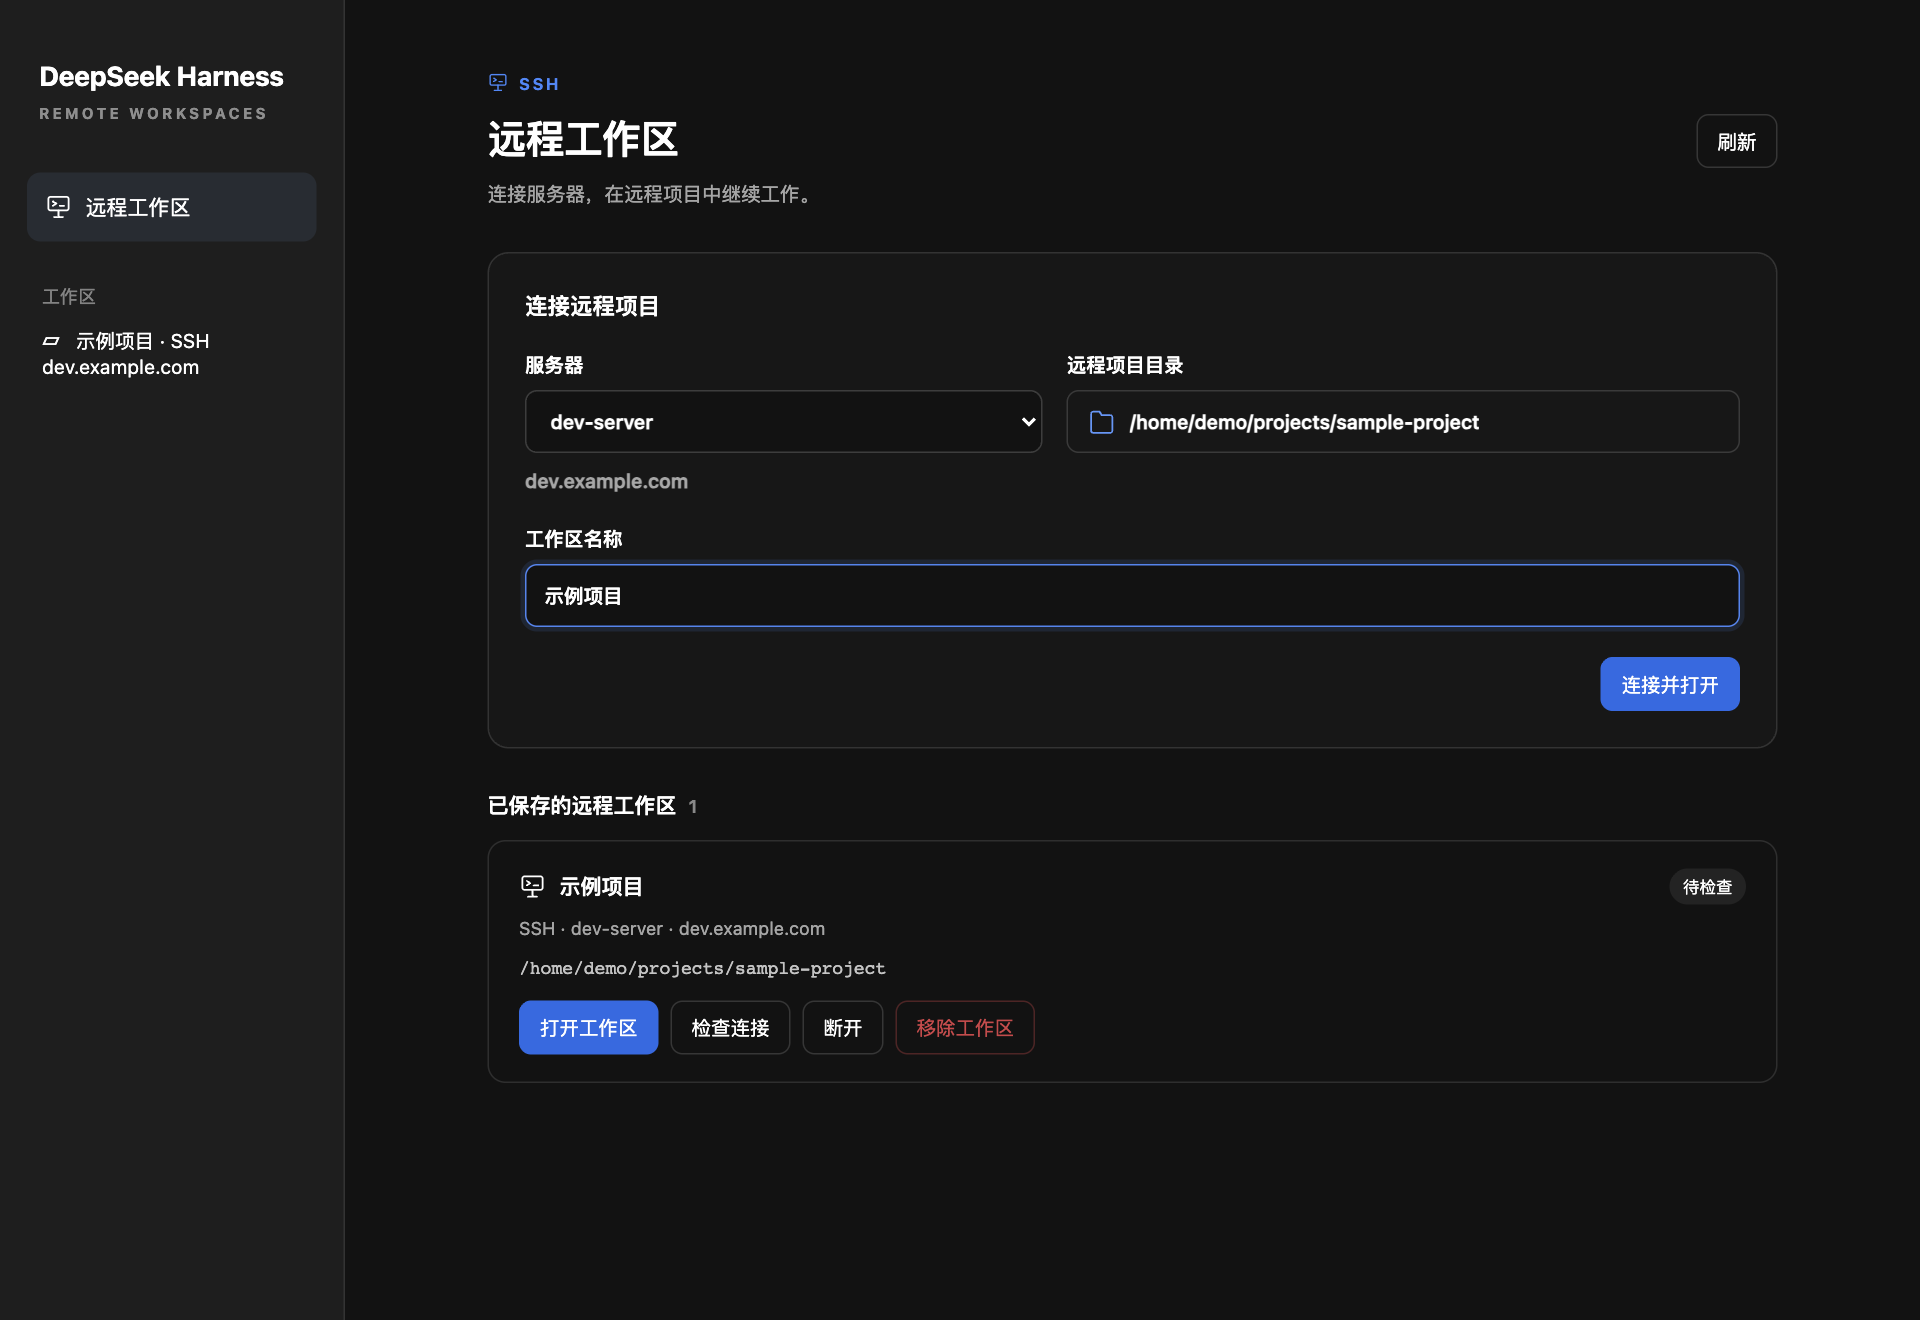
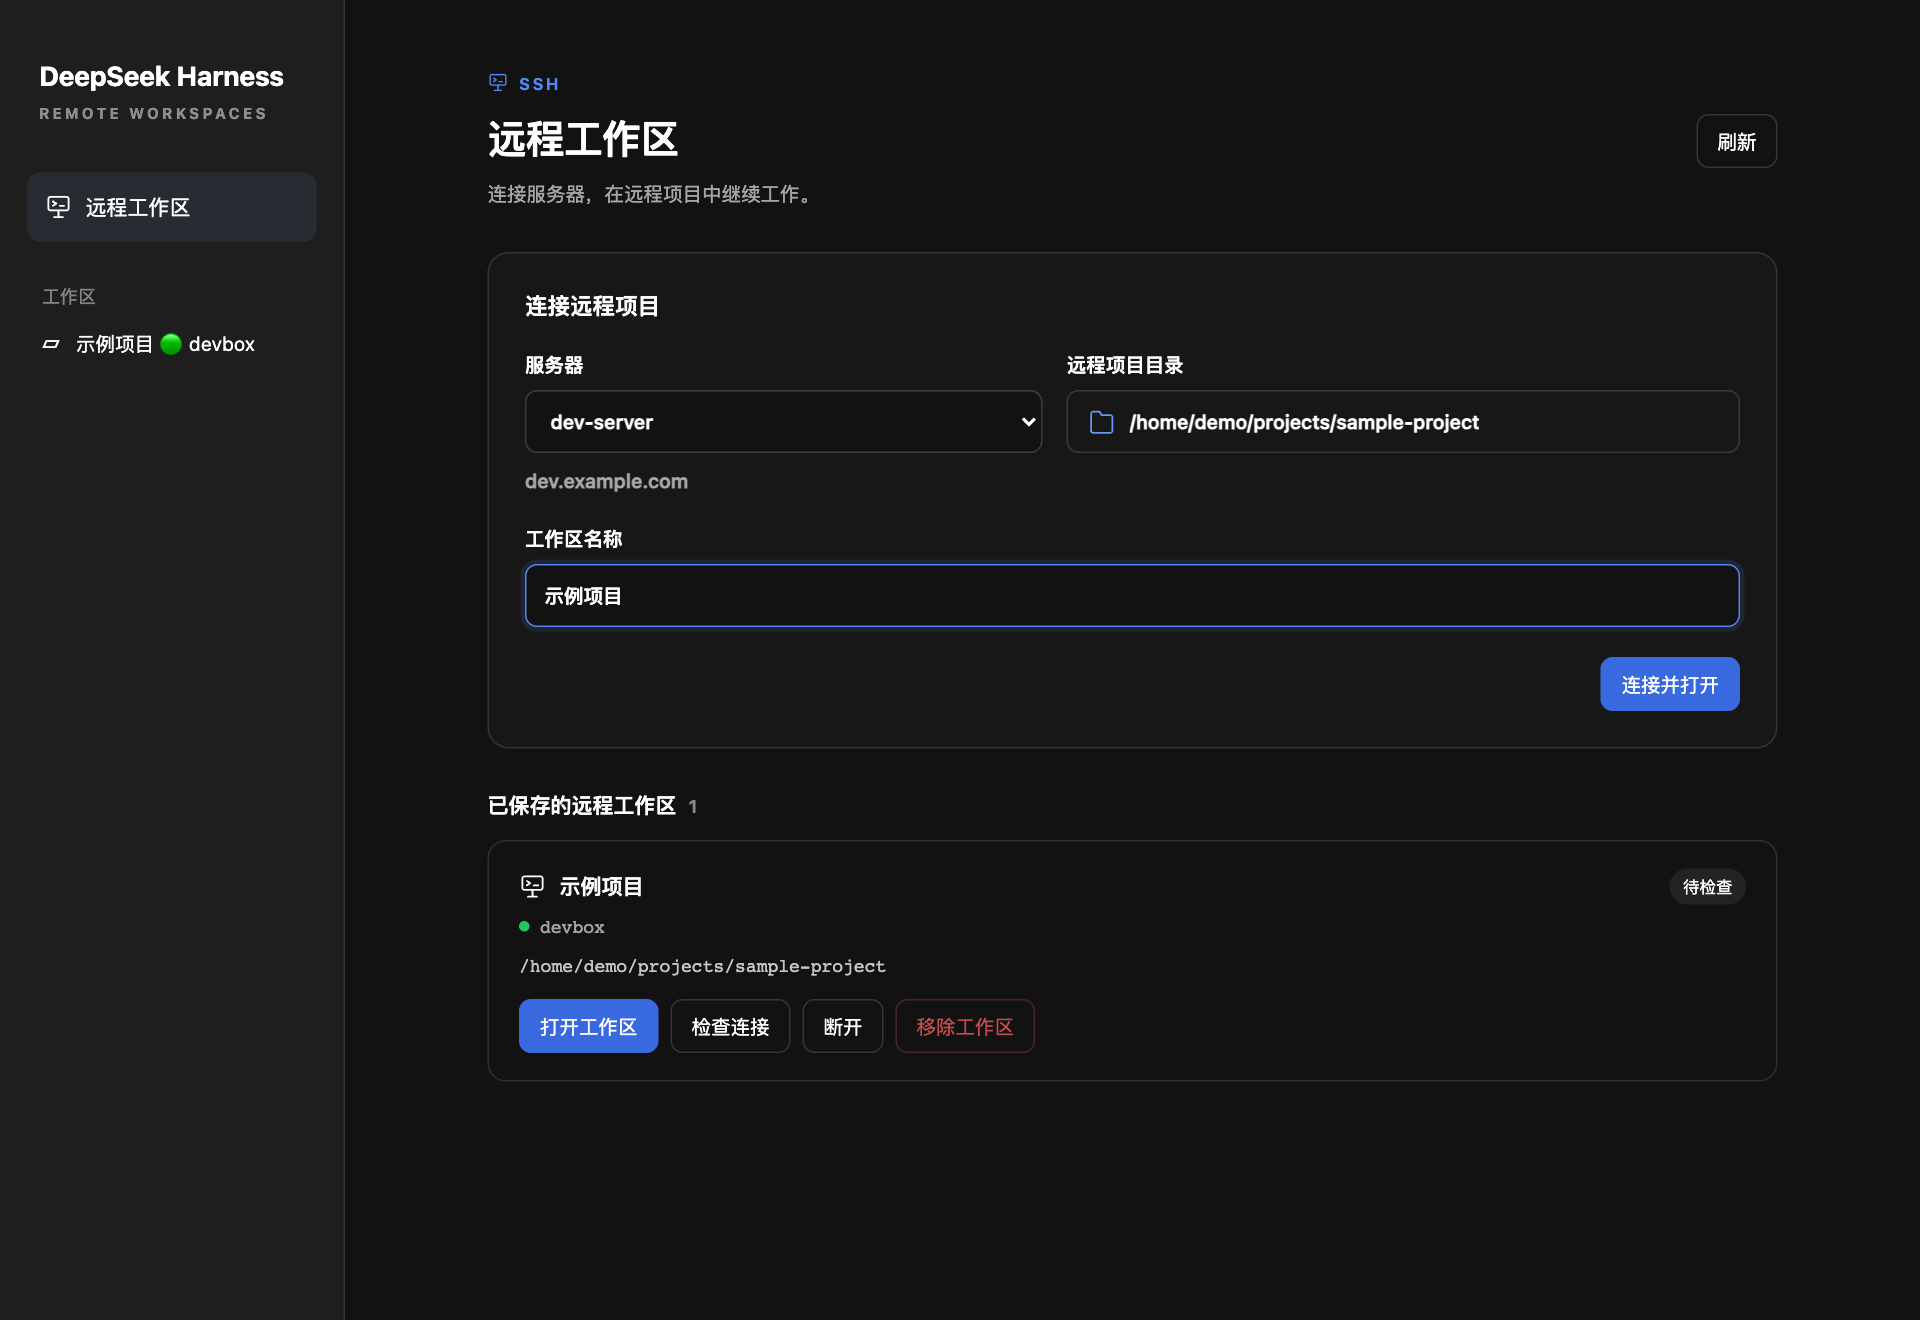
feat: mark remote workspaces with lowercase machine hostnames

Changed region(s): [[0.2812, 0.6833, 0.4688, 0.8076], [0.4688, 0.7455, 0.5312, 0.8076], [0.0312, 0.2485, 0.125, 0.2795]]

diff --git a/test/preview/index.html b/test/preview/index.html
@@ -1,14 +1,14 @@
 <!doctype html><html lang="zh-CN" class="dark"><head><meta charset="utf-8"><meta name="viewport" content="width=device-width,initial-scale=1"><title>SSH remote workspaces — demo</title><style>
 :root{color-scheme:light;--dsh-frame-top-clearance:24px}*{box-sizing:border-box}body{margin:0;background:Canvas;color:CanvasText;font-family:-apple-system,BlinkMacSystemFont,'Segoe UI',sans-serif}html.dark{color-scheme:dark}#app{display:flex;height:100vh}aside{width:230px;flex-shrink:0;padding:34px 18px;background:color-mix(in srgb,CanvasText 5%,Canvas);border-right:1px solid #8883}aside strong{display:block;font-size:18px;margin:6px 8px 34px}aside small{display:block;font-size:10px;letter-spacing:2px;opacity:.5;margin-top:8px}aside .entry{padding:13px 12px;font-size:14px;display:flex;gap:9px;align-items:center;border-radius:9px;background:#6d8ec51f}aside p{font-size:12px;opacity:.45;margin:28px 10px 12px}aside .workspace{font-size:13px;margin-left:10px}main{flex:1;min-width:0}#root{height:100%}@media(max-width:700px){aside{display:none}}
-</style></head><body><div id="app"><aside><strong>DeepSeek Harness<small>REMOTE WORKSPACES</small></strong><div id="sidebar"></div><p>工作区</p><div class="workspace">▱ &nbsp; 示例项目 · SSH dev.example.com</div></aside><main><div id="root"></div></main></div>
+</style></head><body><div id="app"><aside><strong>DeepSeek Harness<small>REMOTE WORKSPACES</small></strong><div id="sidebar"></div><p>工作区</p><div class="workspace">▱ &nbsp; 示例项目 🟢 devbox</div></aside><main><div id="root"></div></main></div>
 <script src="../../node_modules/react/umd/react.development.js"></script><script src="../../node_modules/react-dom/umd/react-dom.development.js"></script>
 <script>window.__ModuleLoader__={load(bundle){window.sshBundle=bundle}};</script><script src="../../ui/client.js"></script><script>
 // Fictional fixtures only: this preview never reads SSH configuration or connects.
 const plugin=window.sshBundle.factory(name=>({react:React})[name]);
 window.calls=[];window.failConnect=false;window.delayConnect=false;window.noHosts=false;
 window.workspaceListeners=new Set();window.archivedSessionIds=[];
-window.mounts=[{name:'示例项目',hostname:'dev.example.com',alias:'dev-server',remoteDir:'/home/demo/projects/sample-project',localDir:'/demo/workspaces/sample-project',status:'saved',checkedAt:null,message:''}];
-window.hosts=[{alias:'dev-server',hostname:'dev.example.com'},{alias:'staging',hostname:'staging.example.com'}];
+window.mounts=[{name:'示例项目',hostname:'devbox',alias:'dev-server',remoteDir:'/home/demo/projects/sample-project',localDir:'/demo/workspaces/sample-project',status:'saved',checkedAt:null,message:''}];
+window.hosts=[{alias:'dev-server',hostname:'dev.example.com',remoteHostname:'DEVBOX'},{alias:'staging',hostname:'staging.example.com',remoteHostname:'STAGING-BOX'}];
 const folders={'/':['home','srv'],'/home':['demo'],'/home/demo':['.config','Documents','projects'],'/home/demo/projects':['api-service','sample-project','website'],'/home/demo/projects/sample-project':['docs','src','tests']};
 function delay(ms,signal){return new Promise((resolve,reject)=>{if(signal?.aborted)return reject(signal.reason);const id=setTimeout(resolve,ms);signal?.addEventListener('abort',()=>{clearTimeout(id);reject(signal.reason)},{once:true})})}
 const ctx={
@@ -25,9 +25,9 @@ const ctx={
   if(method==='connect'){
    if(window.delayConnect)await delay(350,signal);
    if(window.failConnect)return {ok:false,error:{message:'Permission denied (publickey)'}};
-   const value={name:request.name||request.remote_path.split('/').pop(),hostname:window.hosts.find(h=>h.alias===request.host).hostname,alias:request.host,remoteDir:request.remote_path,localDir:'/demo/workspaces/connected',status:'connected',checkedAt:new Date().toISOString(),message:''};window.mounts=[value];return {ok:true,value};
+   const value={name:request.name||request.remote_path.split('/').pop(),hostname:window.hosts.find(h=>h.alias===request.host).remoteHostname.toLowerCase(),alias:request.host,remoteDir:request.remote_path,localDir:'/demo/workspaces/connected',status:'connected',checkedAt:new Date().toISOString(),message:''};window.mounts=[value];return {ok:true,value};
   }
-  if(method==='open'){document.querySelector('aside .workspace').textContent=window.mounts[0].name+' · SSH '+window.mounts[0].hostname;return {ok:true,value:{workspaceId:'demo-workspace'}};}
+  if(method==='open'){document.querySelector('aside .workspace').textContent=window.mounts[0].name+' 🟢 '+window.mounts[0].hostname;return {ok:true,value:{workspaceId:'demo-workspace'}};}
   if(method==='check'){window.mounts[0].status='connected';window.mounts[0].checkedAt=new Date().toISOString();return {ok:true,value:window.mounts[0]};}
   if(method==='disconnect'){window.mounts=[];return {ok:true,value:{closed:true}};}
   if(method==='remove'){

diff --git a/lib/workspace-actions.js b/lib/workspace-actions.js
@@ -5,7 +5,7 @@ import { createHash } from 'node:crypto';
 import { normalizeRemote } from './mounts.js';
 import { describeHost } from './ssh-config.js';
 import { validateHost } from './browse.js';
-import { isAutomaticTitle, normalizeWorkspaceName, workspaceLabels } from './workspace-labels.js';
+import { isAutomaticTitle, normalizeWorkspaceName, remoteHostnameFromBanner, workspaceLabels, workspaceNameFromTitle } from './workspace-labels.js';
 
 export function createWorkspaceActions(runtime) {
   const { config, mounts, runner } = runtime;
@@ -18,8 +18,7 @@ export function createWorkspaceActions(runtime) {
   const labels = mount => {
     const workspace = findWorkspace(mount);
     if (!mount.renameRequested && workspace && !isAutomaticTitle(workspace, mount)) {
-      const suffix = ` · SSH ${workspaceLabels(mount).hostname}`;
-      return workspaceLabels({ ...mount, name: workspace.title.endsWith(suffix) ? workspace.title.slice(0, -suffix.length) : workspace.title });
+      return workspaceLabels({ ...mount, name: workspaceNameFromTitle(workspace.title, mount) });
     }
     return workspaceLabels(mount);
   };
@@ -32,12 +31,27 @@ export function createWorkspaceActions(runtime) {
     const previous = { ...mount };
     if (oldTitle !== next.title) await workspace.setTitle(next.title);
     try {
-      Object.assign(mount, { name: next.name, hostname: next.hostname, workspaceTitle: next.title, renameRequested: false });
+      Object.assign(mount, { name: next.name, workspaceTitle: next.title, renameRequested: false });
       mounts.save();
     } catch (error) {
       for (const key of Object.keys(mount)) if (!(key in previous)) delete mount[key];
       Object.assign(mount, previous);
       if (oldTitle !== next.title) await workspace.setTitle(oldTitle);
+      throw error;
+    }
+  }
+  async function refreshHostname(mount, banner) {
+    const remoteHostname = remoteHostnameFromBanner(banner);
+    if (!remoteHostname || remoteHostname === mount.remoteHostname) return;
+    const previous = { ...mount };
+    Object.assign(mount, { name: labels(mount).name, remoteHostname });
+    try {
+      const workspace = findWorkspace(mount);
+      if (workspace) await updateTitle(mount, workspace);
+      else mounts.save();
+    } catch (error) {
+      for (const key of Object.keys(mount)) if (!(key in previous)) delete mount[key];
+      Object.assign(mount, previous);
       throw error;
     }
   }
@@ -92,6 +106,7 @@ export function createWorkspaceActions(runtime) {
         mkdirSync(localDir, { recursive: true, mode: 0o755 });
         const facts = describeHost(runtime.configBlocks, alias);
         mounts.put({ ...previous, localDir, alias, remoteDir, hostname: facts.hostname,
+          remoteHostname: remoteHostnameFromBanner(banner) ?? previous?.remoteHostname,
           name: requestedName ?? previous?.name ?? workspaceLabels({ alias, remoteDir }).name,
           renameRequested: requestedName !== undefined || previous?.renameRequested === true,
           ...(facts.user === undefined ? {} : { user: facts.user }),
@@ -135,14 +150,17 @@ export function createWorkspaceActions(runtime) {
       }
     },
     async check(localPath, signal) {
+      if (busy.has(localPath)) throw new Error('这个工作区正在处理其他操作，请稍后重试。');
       const mount = getMount(localPath);
+      busy.add(localPath);
       try {
-        await probe(mount.alias, mount.remoteDir, signal);
+        const banner = await probe(mount.alias, mount.remoteDir, signal);
+        await refreshHostname(mount, banner);
         statuses.set(localPath, { status: 'connected', checkedAt: new Date().toISOString(), message: '' });
       } catch (error) {
         statuses.set(localPath, { status: 'error', checkedAt: new Date().toISOString(), message: error.message });
         throw error;
-      }
+      } finally { busy.delete(localPath); }
       return this.list().find((m) => m.localDir === localPath);
     },
     async disconnect(localPath) {

diff --git a/ui/client.js b/ui/client.js
@@ -25,7 +25,8 @@ window.__ModuleLoader__.load({
       .dsh-ssh-page .dsh-ssh-primary{color:#fff;background:#3869df;border-color:#3869df}
       .dsh-ssh-page .dsh-ssh-primary:hover:not(:disabled){background:#2e5bc9}
       .dsh-ssh-form-footer{display:flex;justify-content:flex-end;align-items:center;gap:18px;margin-top:20px}
-      .dsh-ssh-name-field{margin-top:18px}.dsh-ssh-hostname{font-size:12px;opacity:.62;margin:8px 0 0;overflow-wrap:anywhere}
+      .dsh-ssh-name-field{margin-top:18px}.dsh-ssh-hostname{display:flex;align-items:center;gap:7px;font-size:12px;margin:8px 0 0;overflow-wrap:anywhere}
+      .dsh-ssh-hostname-text{font-family:ui-monospace,SFMono-Regular,monospace;opacity:.62}.dsh-ssh-remote-dot{width:7px;height:7px;flex-shrink:0;border-radius:50%;background:#22c55e}
       .dsh-ssh-section-title{display:flex;align-items:center;justify-content:space-between;margin:28px 0 13px}
       .dsh-ssh-section-title h2{font-size:14px;margin:0;font-weight:600}.dsh-ssh-count{opacity:.5;font-size:12px;margin-left:8px}
       .dsh-ssh-mount{border:1px solid color-mix(in srgb,currentColor 12%,transparent);border-radius:12px;padding:18px 20px;margin-bottom:10px}
@@ -228,7 +229,9 @@ window.__ModuleLoader__.load({
           snapshot.mounts.map((mount) => h('article', { className: 'dsh-ssh-mount', key: mount.localDir },
             h('div', { className: 'dsh-ssh-row' }, h('div', { className: 'dsh-ssh-host' }, h(Icon), mount.name),
               h('span', { className: `dsh-ssh-status ${mount.status}` }, statuses[mount.status])),
-            h('p', { className: 'dsh-ssh-hostname' }, `SSH · ${mount.alias}${mount.hostname !== mount.alias ? ` · ${mount.hostname}` : ''}`),
+            h('p', { className: 'dsh-ssh-hostname', title: `SSH · ${mount.alias}`, 'aria-label': `远程主机 ${mount.hostname.toLowerCase()}` },
+              h('span', { className: 'dsh-ssh-remote-dot', 'aria-hidden': true }),
+              h('span', { className: 'dsh-ssh-hostname-text' }, mount.hostname.toLowerCase())),
             h('p', { className: 'dsh-ssh-path' }, mount.remoteDir),
             mount.message && h('p', { className: 'dsh-ssh-error' }, friendly(new Error(mount.message))),
             h('div', { className: 'dsh-ssh-actions' },

diff --git a/lib/workspace-labels.js b/lib/workspace-labels.js
@@ -10,9 +10,28 @@ export function normalizeWorkspaceName(value) {
 }
 
 export function workspaceLabels(mount) {
-  const hostname = mount.hostname || mount.alias;
+  const hostname = (mount.remoteHostname || mount.hostname || mount.alias).toLowerCase();
   const name = mount.name || posix.basename(mount.remoteDir) || mount.alias;
-  return { name, hostname, title: `${name} · SSH ${hostname}` };
+  return { name, hostname, title: `${name} 🟢 ${hostname}` };
+}
+
+/** The helper reports the machine's hostname, independently of its SSH address. */
+export function remoteHostnameFromBanner(banner) {
+  const hostname = /(?:^|\s)host=([a-z\d][a-z\d._-]*)(?=\s|$)/iu.exec(banner)?.[1].toLowerCase();
+  return hostname === 'unknown' ? undefined : hostname;
+}
+
+/** Preserve native renames while removing only this mount's managed suffix. */
+export function workspaceNameFromTitle(title, mount) {
+  const { hostname } = workspaceLabels(mount);
+  const suffixes = [
+    ` 🟢 ${hostname}`,
+    ` · SSH ${mount.hostname || mount.alias}`,
+    ` · SSH ${hostname}`,
+    mount.workspaceTitle?.match(/(?: · SSH | 🟢 )\S+$/u)?.[0],
+  ];
+  const suffix = suffixes.find(value => value && title.endsWith(value));
+  return suffix ? title.slice(0, -suffix.length) : title;
 }
 
 export function isAutomaticTitle(workspace, mount) {

diff --git a/README.md b/README.md
@@ -8,7 +8,9 @@
 
 选择服务器 → 点击「选择服务器上的文件夹…」→ 打开项目文件夹 →「选择此目录」→「连接并打开」。
 
-连接时可填写「工作区名称」，留空默认使用项目文件夹名。侧边栏显示「名称 · SSH 主机」，远程面板同时显示服务器别名、hostname 和远程目录。
+连接时可填写「工作区名称」，留空默认使用项目文件夹名。侧边栏显示「名称 🟢 hostname」，使用服务器实际的 hostname 并统一小写；绿点标识远程工作区。远程面板显示同样的小写主机名和绿点，悬停主机名可查看 SSH 别名，下方显示远程目录。
+
+旧工作区会保留自定义名称，并在下次检查连接或重新连接时更新为服务器实际的 hostname。
 
 目录选择器从服务器主目录开始，支持面包屑、上一级、文件夹筛选和隐藏目录。浏览不会创建工作区，确认连接后才保存。切换服务器会清空旧的目录选择。
 
@@ -40,7 +42,7 @@ ssh dev-server
 ```sh
 git clone https://github.com/chenqaq123/dsh-remote-ssh.git
 cd dsh-remote-ssh
-git checkout v0.4.0
+git checkout v0.4.1
 node scripts/profile.mjs install desktop
 ```
 
@@ -53,7 +55,7 @@ node scripts/profile.mjs install desktop
 仓库包含完整 npm 包元数据和命令入口，可直接从 GitHub tag 安装，无需等待 npm registry 发布：
 
 ```sh
-npm install -g --install-links git+https://github.com/chenqaq123/dsh-remote-ssh.git#v0.4.0
+npm install -g --install-links git+https://github.com/chenqaq123/dsh-remote-ssh.git#v0.4.1
 dsh-ssh-remote install desktop
 ```
 
